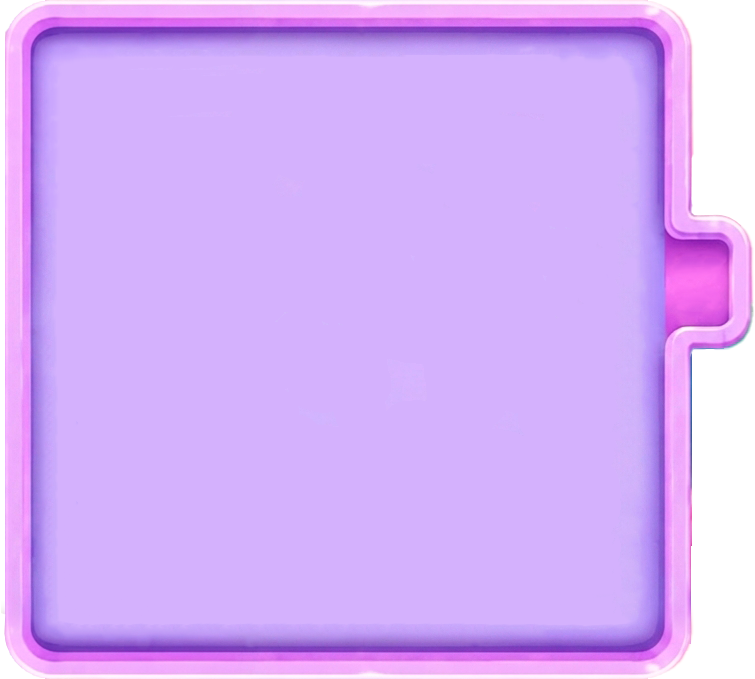
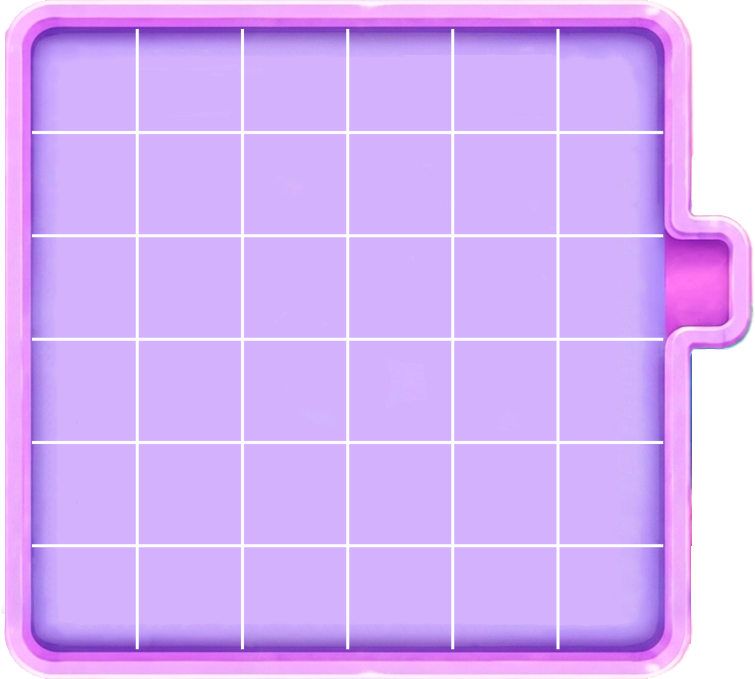
feat: add grid drawing tool for Board_full.png to align with GameConfig geometry

Changed region(s): [[0.0305, 0.0309, 0.8834, 0.9588], [0.1523, 0.7732, 0.2132, 0.8351], [0.1523, 0.9278, 0.1828, 0.9588]]

diff --git a/tools/draw_board_grid.py b/tools/draw_board_grid.py
@@ -1,0 +1,72 @@
+#!/usr/bin/env python3
+"""Рисует сетку 6x6 поверх `Board_full.png` по геометрии из `GameConfig.ts`.
+
+Зачем: автор убрал старую запечённую сетку с `Board_full.png` (была невыразительной и не
+совпадала с тем, где реально останавливаются блоки — GameConfig.colPitch/rowPitch считают
+РАВНОМЕРНЫЙ шаг из inner rect, а старые линии на текстуре были нарисованы неравномерно).
+Новые линии кладутся ровно на границы ячеек, которые использует рантайм, — расхождений
+"сетка vs блоки" больше не будет по построению.
+
+Геометрия (числа — те же, что в `assets/scripts/Core/GameConfig.ts`, дублировать формулы
+безопасно: это одноразовый build-tool, а не рантайм-код, GameConfig остаётся source of truth):
+  boardInnerLeft/Top/Right/Bottom = 32/29/663/649 px текстуры, gridCols/gridRows = 6/6.
+  colPitch = (663-32)/6 ≈ 105.17 px, rowPitch = (649-29)/6 ≈ 103.33 px.
+
+Линии — только ВНУТРЕННИЕ границы ячеек (5 вертикальных + 5 горизонтальных, i=1..5).
+Внешний периметр inner rect не дублируется линией: он уже промаркирован рамкой платы
+(тёмный рант в самом арте, см. замеры пикселей вокруг x=32/663, y=29/649) — линия поверх
+рамки только замусорила бы её, ничего не добавляя к читаемости.
+
+Цвет — чистый белый (255,255,255), непрозрачный в теле линии; сглаживание на краях линии
+делается только альфой (суперсэмплинг), это не меняет сам цвет.
+
+Запуск: python3 tools/draw_board_grid.py
+"""
+from PIL import Image, ImageDraw
+
+SRC = "assets/art/board/Board_full.png"
+
+BOARD_INNER_LEFT = 32
+BOARD_INNER_TOP = 29
+BOARD_INNER_RIGHT = 663
+BOARD_INNER_BOTTOM = 649
+GRID_COLS = 6
+GRID_ROWS = 6
+
+LINE_WIDTH = 3.0  # px текстуры, супersample x4 ниже даёт сглаженный край при этой толщине
+SUPERSAMPLE = 4
+WHITE = (255, 255, 255, 255)
+
+
+def col_pitch():
+    return (BOARD_INNER_RIGHT - BOARD_INNER_LEFT) / GRID_COLS
+
+
+def row_pitch():
+    return (BOARD_INNER_BOTTOM - BOARD_INNER_TOP) / GRID_ROWS
+
+
+def main():
+    base = Image.open(SRC).convert("RGBA")
+    w, h = base.size
+
+    hi = Image.new("RGBA", (w * SUPERSAMPLE, h * SUPERSAMPLE), (0, 0, 0, 0))
+    draw = ImageDraw.Draw(hi)
+    lw = LINE_WIDTH * SUPERSAMPLE
+
+    cp, rp = col_pitch(), row_pitch()
+    for i in range(1, GRID_COLS):
+        x = (BOARD_INNER_LEFT + i * cp) * SUPERSAMPLE
+        draw.line([(x, BOARD_INNER_TOP * SUPERSAMPLE), (x, BOARD_INNER_BOTTOM * SUPERSAMPLE)], fill=WHITE, width=round(lw))
+    for j in range(1, GRID_ROWS):
+        y = (BOARD_INNER_TOP + j * rp) * SUPERSAMPLE
+        draw.line([(BOARD_INNER_LEFT * SUPERSAMPLE, y), (BOARD_INNER_RIGHT * SUPERSAMPLE, y)], fill=WHITE, width=round(lw))
+
+    grid = hi.resize((w, h), Image.LANCZOS)
+    out = Image.alpha_composite(base, grid)
+    out.save(SRC)
+    print(f"grid drawn: {w}x{h}, colPitch={cp:.3f} rowPitch={rp:.3f} lineWidth={LINE_WIDTH}px -> {SRC}")
+
+
+if __name__ == "__main__":
+    main()
